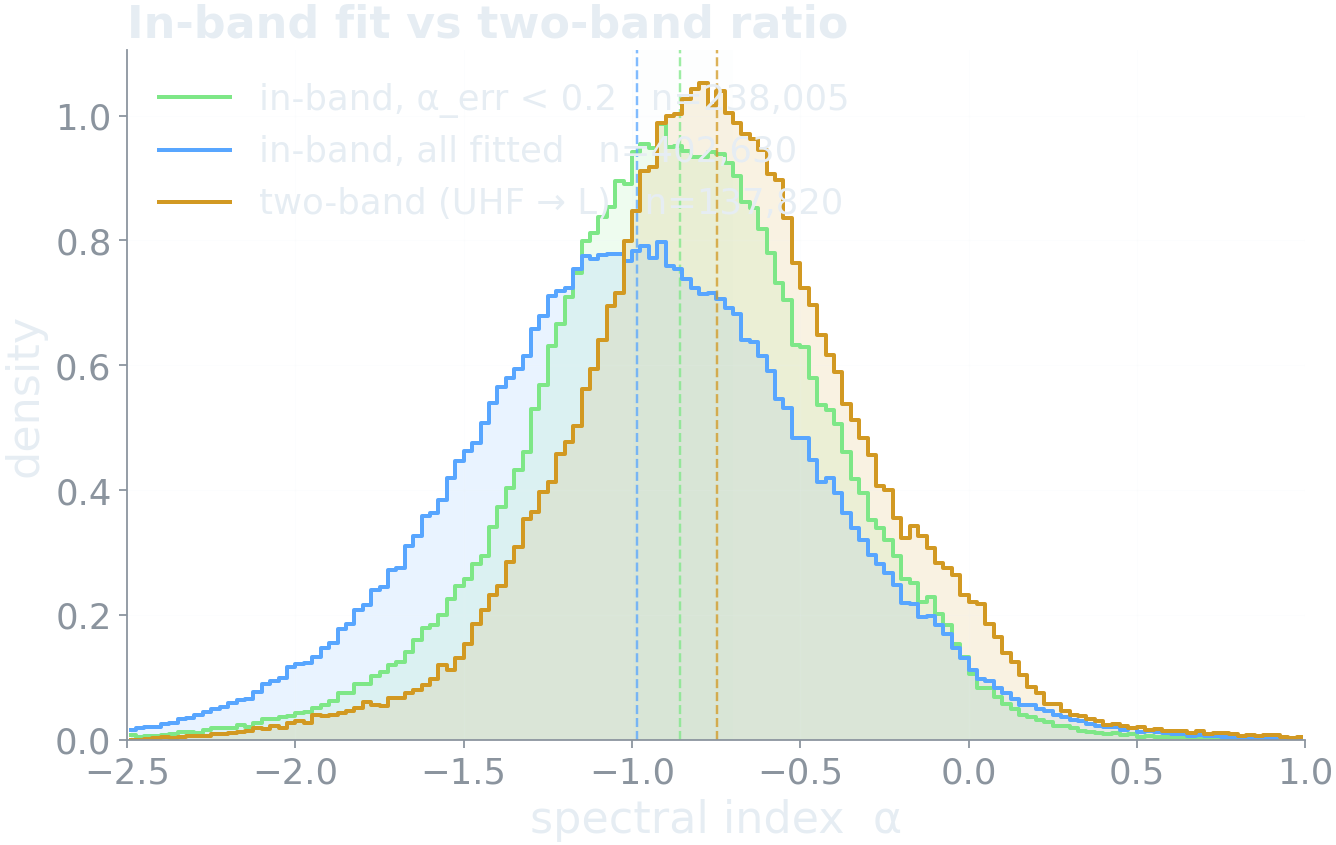
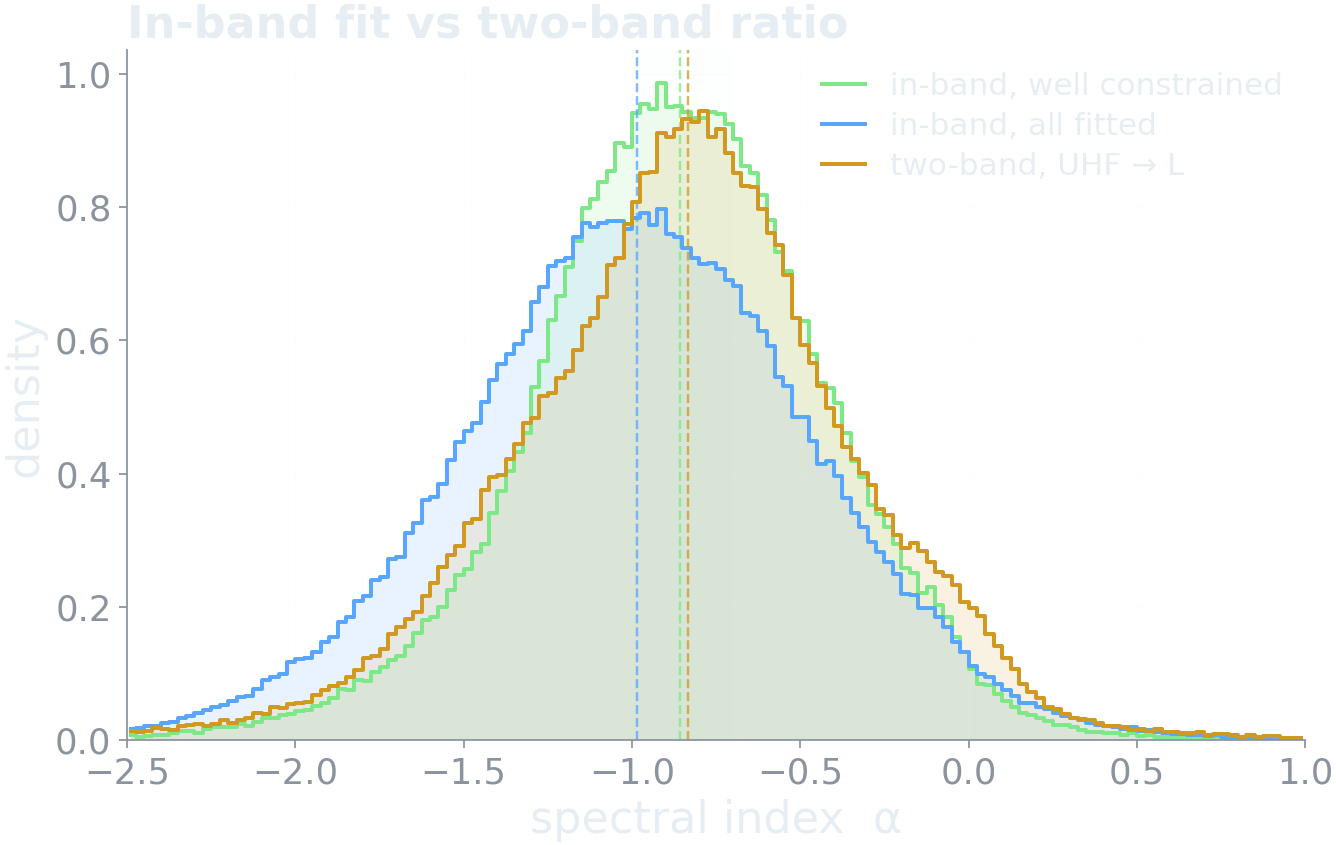
talk(sgr-a-complex-uhf): address deck notes, answer question 1, condense MAP
Deck notes, in order:

- Radio Arc zoom: `--bare` in compare_regions drops the frame, ticks,
  coordinate labels and grid, and packs the panels nearly edge to edge.
  The sky now fills the figure and the slide can carry it at height 250.

- "Two independent estimates" said the two-band ratio came from *apparent*
  restored images. It does not, and the note was right to query it. Both
  inputs are primary-beam corrected: the UHF joint mosaic carries pfb's
  PBMIN = 0.025 keyword and its noise rises 5.7x from r = 1.3 deg to the
  field edge, which is what dividing by a shrinking beam looks like; the
  L-band image is an image-space mosaic, so pb correction happens per
  pointing before the average by construction. Empirically the two-band
  alpha has no radial gradient, which an apparent pair could not manage.

- The threshold behind that map was doing real damage. `mask_below` was a
  Jy/beam cut applied to both images, and the L-band beam is 1.63x smaller
  in area, so the same number was a 1.63x stricter surface-brightness cut
  at the high frequency -- preferentially discarding pixels faint at L
  band, which is to say the steep ones. The mask was selecting on the
  quantity being measured. It now runs after the beam-area correction, in
  surface brightness. Median alpha moves -0.75 -> -0.83 and 34% more
  pixels survive. Both panels of spix-inband-map now carry the in-band
  mask as well, so a colour difference between them is a disagreement
[…]

diff --git a/scripts/figures/make_figures.py b/scripts/figures/make_figures.py
@@ -134,10 +134,20 @@ def resolve_panel_image(spec: Spec, p: dict, region: dict,
             lo = p.get("mask_below")
             da = np.where(a.data > 0, a.data, np.nan)
             db = np.where(b.data > 0, b.data, np.nan)
+            # Beam-correct *before* masking. `mask_below` is a brightness in Jy
+            # per beam of the first image; applying that same number to both in
+            # Jy/beam is a different surface-brightness cut in each whenever the
+            # beams differ, and here the L-band beam is 1.63x smaller in area,
+            # so the cut is 1.63x stricter at the high frequency. That
+            # preferentially throws away pixels that are faint at L band --
+            # which is to say the steep-spectrum ones -- so the mask selects on
+            # the quantity being measured. Measured on this field it biases the
+            # surviving median alpha by +0.08.
+            da, db, scale_a = beam_correct(a, b, da, db, p, fa, fb)
             if lo is not None:
-                da = np.where(da > float(lo), da, np.nan)
-                db = np.where(db > float(lo), db, np.nan)
-            da, db = beam_correct(a, b, da, db, p, fa, fb)
+                cut = float(lo) / scale_a
+                da = np.where(da > cut, da, np.nan)
+                db = np.where(db > cut, db, np.nan)
             out = np.log(da / db) / np.log(fa / fb)
 
     img = SkyImage(out, a.wcs, a.header, a.path, p.get("title"))
@@ -170,10 +180,14 @@ def apply_mask_by(spec: Spec, img: SkyImage, p: dict, region: dict,
             keep &= m.data < float(cond["below"])
         if "above" in cond:
             keep &= m.data > float(cond["above"])
-        kept = keep.sum()
-        print(f"  mask_by {cond['image']}: {kept:,} of {np.isfinite(data).sum():,} "
-              f"finite pixels kept ({100 * kept / max(np.isfinite(data).sum(), 1):.1f}%)")
+        # Count what survives, not what the condition passes. The two differ
+        # whenever the map already carries a mask of its own, and reporting the
+        # condition's own count there gives percentages over 100.
+        before = int(np.isfinite(data).sum())
         data = np.where(keep, data, np.nan)
+        after = int(np.isfinite(data).sum())
+        print(f"  mask_by {cond['image']}: {after:,} of {before:,} "
+              f"finite pixels kept ({100 * after / max(before, 1):.1f}%)")
     return SkyImage(data, img.wcs, img.header, img.path, img.label)
 
 
@@ -193,29 +207,32 @@ def beam_correct(a: SkyImage, b: SkyImage, da, db, p: dict, fa: float, fb: float
     unresolved. The rigorous alternative is to convolve the sharper image to
     the broader beam before dividing; this is the cheap correction, and the
     figure should say which it used.
+
+    Returns the two arrays and the scale applied to the first, so a caller can
+    convert a Jy/beam threshold into the same units the arrays are now in.
     """
     want = p.get("beam_area_correct")
     ba, bb = a.beam, b.beam
     if want is False:
-        return da, db
+        return da, db, 1.0
     if ba is None or bb is None:
         if want:
             die("beam_area_correct needs a beam on both images; "
                 "stamp one with scripts/figures/stamp_beam.py")
         print("  note: no beam on one or both images -- NO beam-area correction "
               "applied. Any beam mismatch appears as a spectral index offset.")
-        return da, db
+        return da, db, 1.0
 
     # Gaussian solid angle is proportional to bmaj*bmin; the constant cancels.
     area_a, area_b = ba[0] * ba[1], bb[0] * bb[1]
     ratio = area_a / area_b
     if abs(np.log(ratio)) < 1e-3:
-        return da, db
+        return da, db, 1.0
     offset = np.log(ratio) / np.log(fa / fb)
     print(f"  beam-area correction: {ba[0]:.2f}\"x{ba[1]:.2f}\" vs "
           f"{bb[0]:.2f}\"x{bb[1]:.2f}\", ratio {ratio:.3f} "
           f"-> removes an alpha offset of {offset:+.2f}")
-    return da / area_a, db / area_b
+    return da / area_a, db / area_b, area_a
 
 
 def prepare(img: SkyImage, region: dict, max_pixels: int) -> SkyImage:
@@ -289,8 +306,14 @@ def render(spec: Spec, name: str, fig_spec: dict, dpi: int | None) -> Path:
     # own, so there is nothing to resolve up front for them.
     defers = [d or (h and bool(p.get("series")))
               for p, h, d in zip(panels_spec, is_hist, is_dens)]
-    resolved = [(None, {}) if skip else resolve_panel_image(spec, p, region, max_pixels)
-                for p, skip in zip(panels_spec, defers)]
+    # A panel may override the figure's region. That turns one figure into a
+    # row of zooms on unrelated sky positions -- several filaments on the same
+    # colour scale, say -- which is the only honest way to ask whether a
+    # population shares a property.
+    regions = [spec.region(p["region"]) if p.get("region") else region
+               for p in panels_spec]
+    resolved = [(None, {}) if skip else resolve_panel_image(spec, p, rg, max_pixels)
+                for p, rg, skip in zip(panels_spec, regions, defers)]
     images = [r[0] for r in resolved]
     operands = [r[1] for r in resolved]
 
@@ -317,7 +340,7 @@ def render(spec: Spec, name: str, fig_spec: dict, dpi: int | None) -> Path:
         r, c = divmod(k, cols)
 
         if is_hist[k]:
-            series = histogram_series(spec, p, img, operands[k], region, max_pixels)
+            series = histogram_series(spec, p, img, operands[k], regions[k], max_pixels)
             _, stats = skyfig.draw_histogram(fig, (rows, cols, k + 1), p,
                                              spec.theme, series)
             for label, n, med, mode in stats:
@@ -325,8 +348,8 @@ def render(spec: Spec, name: str, fig_spec: dict, dpi: int | None) -> Path:
             continue
 
         if p.get("plot") == "density":
-            xs, _ = resolve_panel_image(spec, p["x"], region, max_pixels)
-            ys, _ = resolve_panel_image(spec, p["y"], region, max_pixels)
+            xs, _ = resolve_panel_image(spec, p["x"], regions[k], max_pixels)
+            ys, _ = resolve_panel_image(spec, p["y"], regions[k], max_pixels)
             _, (n, med, scat) = skyfig.draw_density(
                 fig, (rows, cols, k + 1), xs.data, ys.data, p, spec.theme)
             print(f"  density: n={n:,}  median offset {med:+.2f}  scatter {scat:.2f}")

diff --git a/scripts/figures/compare_regions.py b/scripts/figures/compare_regions.py
@@ -261,9 +261,10 @@ def render(spec: Spec, boxes: list[Box], images: list[tuple[str, dict]],
                     # bottom-row-only labels would read as applying to the whole
                     # column and be wrong for every row above it. Dec is per-row
                     # already, and only the left panel needs it.
-                    show_ra=True,
-                    show_dec=(ci == 0),
-                    grid=not args.no_grid,
+                    show_ra=not args.bare,
+                    show_dec=(ci == 0) and not args.bare,
+                    grid=not (args.no_grid or args.bare),
+                    frame=not args.bare,
                     beam=True,
                 )
                 ax, _ = panel.draw(fig, (nrows, ncols, ri * ncols + ci + 1), theme)
@@ -280,8 +281,13 @@ def render(spec: Spec, boxes: list[Box], images: list[tuple[str, dict]],
         # Room for a set of RA labels under every row. Wide, short panels need
         # more horizontal gap than square ones: wspace is a fraction of panel
         # *width*, so the same value that separates square panels lets the RA
-        # labels of adjacent landscape panels run into each other.
-        fig.subplots_adjust(hspace=args.hspace, wspace=args.wspace)
+        # labels of adjacent landscape panels run into each other. With --bare
+        # there are no labels to clear, so the gap is only a visual separator
+        # and the panels can sit nearly edge to edge.
+        default_w, default_h = (0.015, 0.03) if args.bare else (0.06, 0.28)
+        fig.subplots_adjust(
+            hspace=default_h if args.hspace is None else args.hspace,
+            wspace=default_w if args.wspace is None else args.wspace)
 
         out = Path(args.output)
         if args.per_region:
@@ -342,8 +348,15 @@ def main() -> int:
     ap.add_argument("--figsize", type=float, nargs=2)
     ap.add_argument("--dpi", type=int, default=170)
     ap.add_argument("--no-grid", action="store_true")
-    ap.add_argument("--wspace", type=float, default=0.06)
-    ap.add_argument("--hspace", type=float, default=0.28)
+    ap.add_argument("--bare", action="store_true",
+                    help="sky only: no frame, ticks, coordinate labels or grid. "
+                         "For a zoom shown straight after the wide view that "
+                         "already carries the coordinates -- on a slide the "
+                         "axis furniture costs height the image should have.")
+    ap.add_argument("--wspace", type=float,
+                    help="gap between columns (default 0.06, or 0.015 with --bare)")
+    ap.add_argument("--hspace", type=float,
+                    help="gap between rows (default 0.28, or 0.03 with --bare)")
     ap.add_argument("--list", action="store_true", help="print the regions and exit")
     args = ap.parse_args()
 

diff --git a/scripts/figures/skyfig.py b/scripts/figures/skyfig.py
@@ -552,8 +552,12 @@ def draw_histogram(fig, subplot_spec, opts: dict, theme: dict, series: list):
             continue
         colour = colours[i % len(colours)]
         counts, _ = np.histogram(v, bins=bins, density=True)
-        ax.step(centres, counts, where="mid", color=colour, lw=1.8,
-                label=f"{label}   n={v.size:,}")
+        # Pixel counts belong in the legend when the question is "over how much
+        # sky", and are noise when the point is the shape of the distribution.
+        # On a slide they roughly double the legend's width for a number nobody
+        # reads from the back of the room, so they are opt-out.
+        text = f"{label}   n={v.size:,}" if opts.get("legend_counts", True) else label
+        ax.step(centres, counts, where="mid", color=colour, lw=1.8, label=text)
         ax.fill_between(centres, counts, step="mid", color=colour, alpha=0.13, lw=0)
 
         med = float(np.median(v))
@@ -575,7 +579,8 @@ def draw_histogram(fig, subplot_spec, opts: dict, theme: dict, series: list):
     ax.grid(color=theme["grid"], alpha=0.12, lw=0.6)
 
     leg = ax.legend(loc=opts.get("legend_loc", "upper left"), frameon=False,
-                    fontsize=FS["legend"])
+                    fontsize=opts.get("legend_fontsize", FS["legend"]),
+                    labelspacing=0.35, handlelength=1.4, borderpad=0.2)
     for text in leg.get_texts():
         text.set_color(theme["fg"])
 
